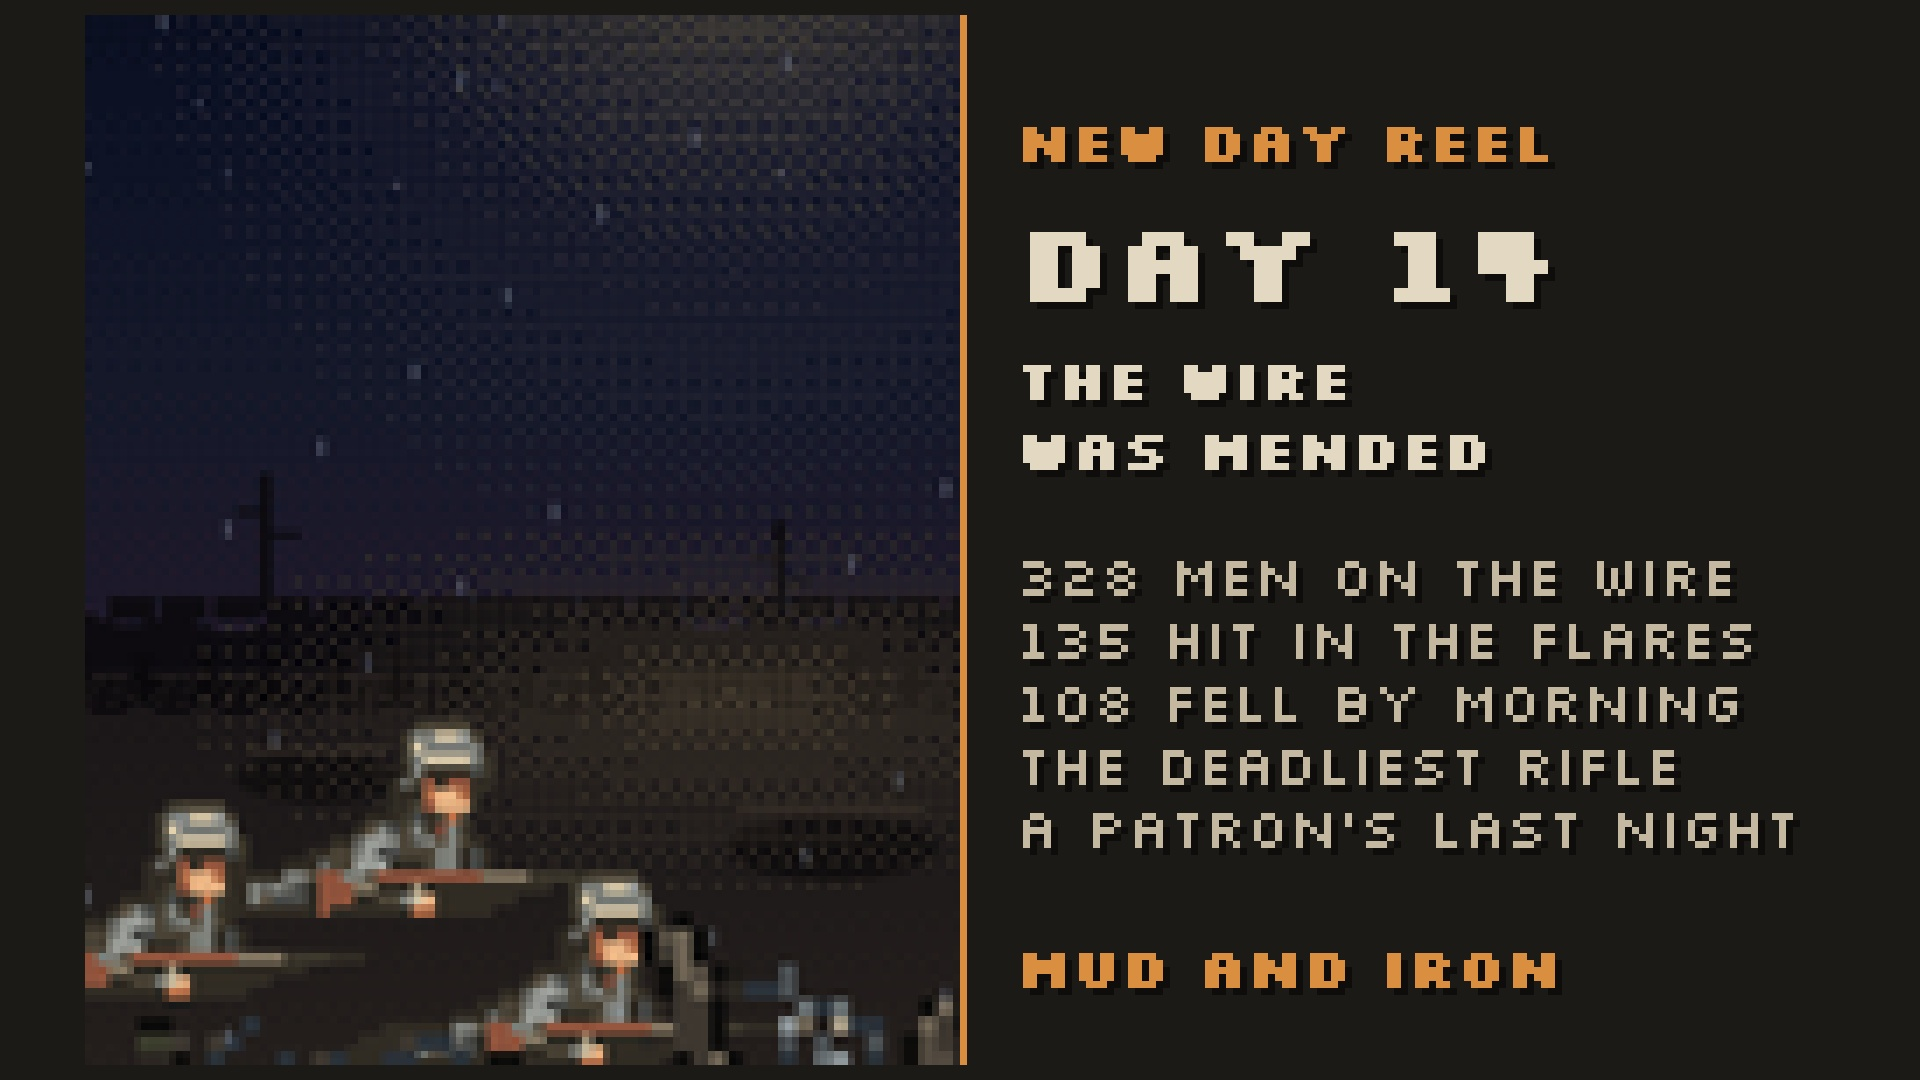
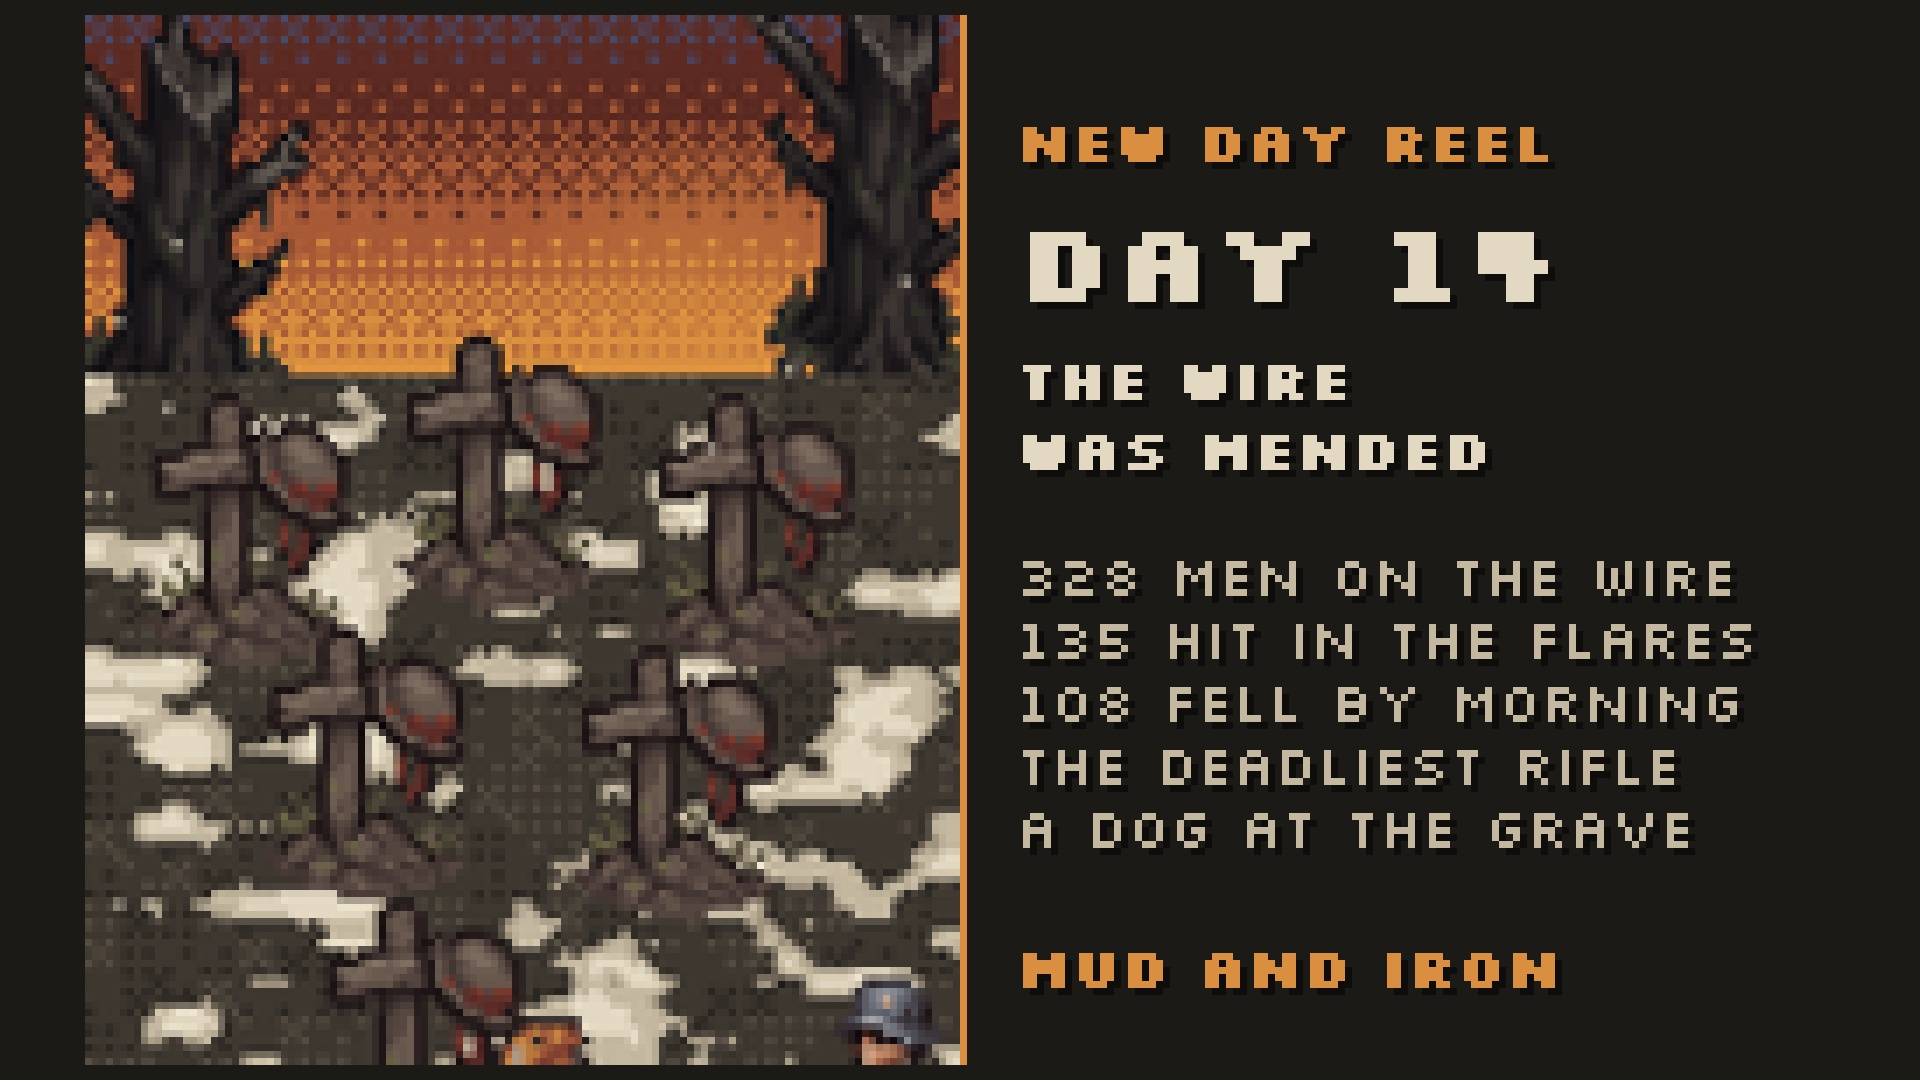
Day reel Day 14 do fronty (16:58 UTC) + story 17:08; vzorový postup Day reelu v CLAUDE.md; scény do evidence
Claude-Session: https://claude.ai/code/session_01FWoRCTpAmETsDNoNBNsz1y

diff --git a/CLAUDE.md b/CLAUDE.md
@@ -203,6 +203,14 @@ Postup pro nový reel `<name>`:
 6. Až to uživatel **výslovně schválí**: přidat položku do `marketing/queue.json` (vzor: existující položky, `publishAt` v UTC).
    Smyčka ji publikuje v daný čas. Video delší než 60 s jde do IG Stories jen rozdělené (`type: "story"`).
 
+**VZOROVÝ DAY REEL = Day 14 (`reel-front14`, schválen uživatelem 23. 11.: „takhle chci i příští videa“). Postup, jak ho dělat:**
+1. **Podklady z novin** (stav po 13:00 UTC): ztráty po stranách (`chronicle` blok „Casualties of the day“), nemocnice a péče, závod, drátaři/raid z dané noci, nováčci za včerejšek (git, půlnoc–půlnoc UTC), počty na frontě. Do `marketing/reels/front<N>.data.json`.
+2. **Příběhy dne ze skutečných hráčů:** nejlepší střelec (`kills`, ideálně převzatý hráč), nejlepší medik (`treated`), patroni z novin (War Bonds / Officers' Mess / Field Post, pes) a co se jim stalo (deník `record`). Raněného patrona jen kartou.
+3. **Hlas** `marketing/reels/front<N>.script.json` (krátké věty, jednoduchá angličtina, ~60–70 s), hudba `war_score` v `marketing/reel_audio.py`, registrace v `web/src/reel.js`.
+4. **Scénář** `web/src/reel-front<N>.js` podle `reel-front14.js`: jednotný titulek `dayTitle`, panely (drátaři, ztráty, závod), reflektor `window.__reelPost` pro představované vojáky, kamera a popisky podle `sprite.x/y`, karty pro raněné, kolona na mapě (`__front.convoy`), přejezdy po linii obou stran, výzva, titulky dole (v kresbách s postavami dole nahoru).
+5. **Filmové scény NOVÉ pro každý den** (`marketing/reels/scenes-used.json`): nový modul `web/src/cinema-d<N>.js` podle `cinema-d14.js`, kreslený v kódu ve stejné pixelové mřížce jako hra (135×240 ×8 široký záběr / 90×160 ×12 blízký), sprity a rekvizity ze hry 1:1, terén paletou Trench-24 s ditheringem, sníh jako závěje, pohyb postav a vozidel (plazení, chůze, jízda), žádné malby z PixelLabu jako pozadí. Na obsah dne: noc a drát, obvaziště, souboj v zákopu, hřbitov se psem, cesta s auty a koňmi…
+6. **Náhled** lokálně (`REEL=1 npx vite`, starý `vo.json` odsunout, snímky přes puppeteer), kontrola měřítka, zakrytí, titulků; pak `marketing/reels/render.json` → workflow `reel`, kontaktní list, poslat video.
+7. **Po schválení:** fronta (`queue.json`), story s čistým snímkem scény (`node tools/story-for.mjs <id> --still … --title "DAY N"`, video nad 60 s → obrázek), scény zapsat do `scenes-used.json`, Patreon thumbnail + text.
 **ČÍSLO DNE VŠUDE (pravidlo uživatele 15. 11.):** hráči i uživatel počítají Den 1 = 10. 11.: **15. 11. = Day 6, 14. 11. = Day 5**, ranní noviny 15. 11. jsou Day 6. Vnitřní `state.day` je o 1 napřed (po novinách 15. 11. = 7), proto se zobrazuje `state.day + theme.dayShift` (−1): engine `engine/day.js` (`showDay`: příběhy {day}, kronika, zprávy botu), web `web/src/day.js` (`dayNo`, `dayLabel`), náhledy `preview-tick`/`sim-edition`. **Ve zprávách uživateli vždy uváděj zobrazené číslo dne (ne state.day).** Uložené dny ve stavu se nepřepisují.
 **ČÍSLO DNE V DAY REELU (pravidlo uživatele 14. 11., chyba se nesmí opakovat):** Day reel ukazuje **včerejší den podle kalendáře** (Den 1 = 9. 11., `theme.warStart`): reel ze 14. 11. = **Day 5**, z 15. 11. = **Day 6** (stejné číslo jako ranní noviny téhož dne), a tak dál, i když je vyrobený po ranních novinách (pak už `state.day` ukazuje o 1 víc; 14. 11. tak omylem vyšel „Day 6“).
 Titulek počítá `reelDay()` v `tools/day-reel.mjs` (`data.label`, přepis `--label N`), stejné číslo patří do popisku a do story (`--title "DAY N"`).
